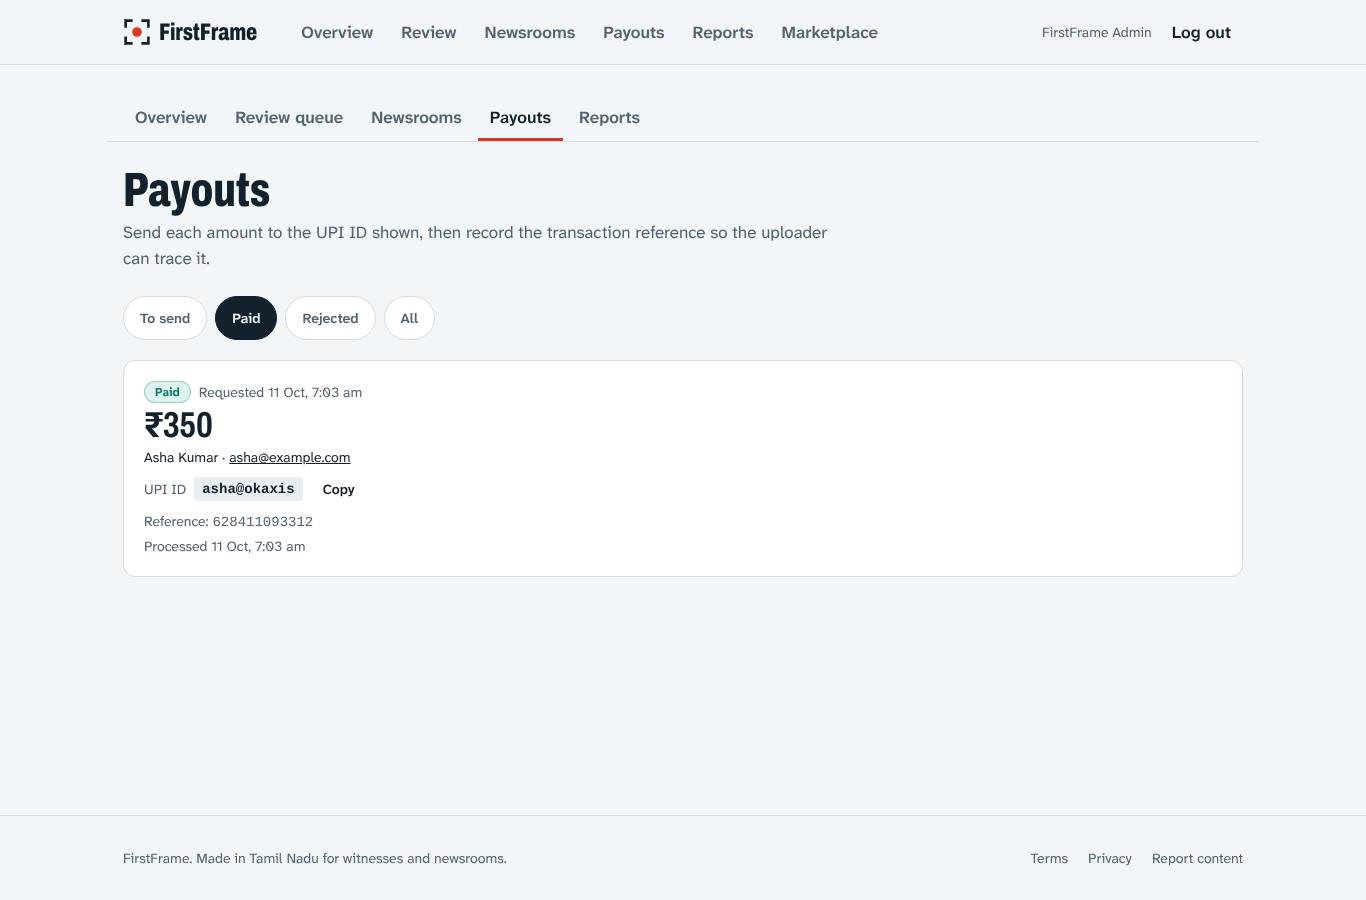
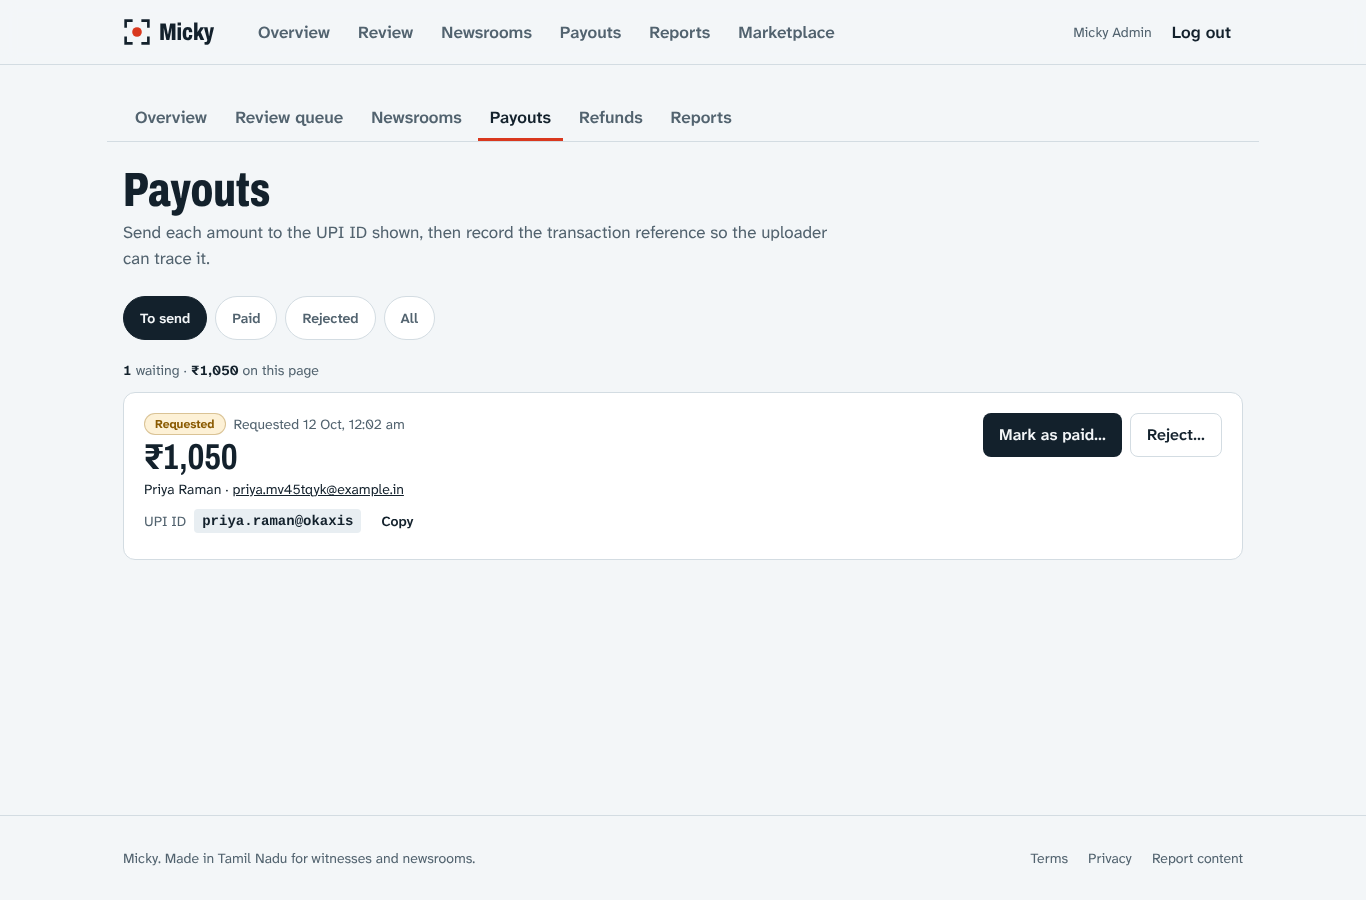
docs: retake all screenshots with the Micky name; poster image in the preview player
- e2e/shots: a script that seeds realistic demo data and regenerates all 23
  images in docs/screenshots (desktop and mobile)
- Preview player shows the watermarked thumbnail before playback and keeps
  it visible behind any playback error, instead of a black box

diff --git a/e2e/shots/screens.spec.ts b/e2e/shots/screens.spec.ts
@@ -1,0 +1,197 @@
+// Regenerates docs/screenshots/ from the real app with realistic demo data.
+// Not part of the test suite: run with `npx playwright test --config shots/shots.config.ts`.
+import { execFileSync } from 'node:child_process';
+import { openAsBlob } from 'node:fs';
+import { mkdirSync } from 'node:fs';
+import path from 'node:path';
+import { type Browser, type BrowserContext, type Page, expect, test } from '@playwright/test';
+import { PASSWORD, type Session, approveChannel, approveMedia, call, loginAdmin, register, waitForStatus } from '../support/api.js';
+import { ADMIN_EMAIL, ADMIN_PASSWORD, FIXTURES_DIR, ROOT, WEB_URL } from '../support/env.js';
+import { loginInUi } from '../support/fixtures.js';
+import { queryDb } from '../support/stack.js';
+
+const OUT = path.join(ROOT, 'docs', 'screenshots');
+const run = Date.now().toString(36);
+
+const CLIPS = [
+  { src: 'testsrc2', title: 'Warehouse fire near Chennai Central', category: 'FIRE', lat: 13.0827, lng: 80.2707, place: 'Chennai Central' },
+  { src: 'mandelbrot', title: 'Bus overturned near Tambaram bridge', category: 'ACCIDENT', lat: 12.9249, lng: 80.1, place: 'Tambaram' },
+  { src: 'smptehdbars', title: 'Waterlogging on Anna Salai after heavy rain', category: 'FLOOD', lat: 13.0604, lng: 80.2496, place: 'Anna Salai, near Gemini flyover' },
+  { src: 'life=s=640x360:mold=10:r=25:ratio=0.1:death_color=#C83737:life_color=#00ff00', title: 'Tree fallen across Gandhipuram main road', category: 'INFRASTRUCTURE', lat: 11.0168, lng: 76.9558, place: 'Gandhipuram, Coimbatore' },
+] as const;
+
+function makeClip(i: number): string {
+  const c = CLIPS[i];
+  const file = path.join(FIXTURES_DIR, `shot-${i}.mp4`);
+  const src = c.src.includes('=') ? c.src : `${c.src}=size=640x360:rate=25`;
+  execFileSync('ffmpeg', ['-hide_banner', '-loglevel', 'error', '-y', '-f', 'lavfi', '-i', src, '-f', 'lavfi', '-i', 'sine=frequency=330',
+    '-t', '8', '-c:v', 'libx264', '-preset', 'veryfast', '-pix_fmt', 'yuv420p', '-c:a', 'aac', '-shortest',
+    '-metadata', `comment=shots-${run}-${i}`, '-movflags', '+faststart', file]);
+  return file;
+}
+
+async function upload(s: Session, i: number): Promise<string> {
+  const c = CLIPS[i];
+  const form = new FormData();
+  form.set('title', c.title);
+  form.set('description', 'Filmed from across the road. Fire services arrived about ten minutes later.');
+  form.set('category', c.category);
+  form.set('latitude', String(c.lat));
+  form.set('longitude', String(c.lng));
+  form.set('locationName', c.place);
+  form.set('capturedAt', new Date(Date.now() - (i + 1) * 25 * 60_000).toISOString());
+  form.set('rightsConfirmed', 'true');
+  form.set('file', await openAsBlob(makeClip(i), { type: 'video/mp4' }), `VID_2026101${i}.mp4`);
+  const res = await call<{ id: string }>('POST', '/media', { token: s.token, form });
+  expect(res.status, JSON.stringify(res.body)).toBe(201);
+  return res.body.id;
+}
+
+const DESKTOP = { viewport: { width: 1366, height: 900 }, deviceScaleFactor: 1 };
+const MOBILE = { viewport: { width: 360, height: 780 }, deviceScaleFactor: 2, isMobile: true, hasTouch: true };
+
+async function ctx(browser: Browser, opts: typeof DESKTOP | typeof MOBILE): Promise<BrowserContext> {
+  const c = await browser.newContext({ ...opts, baseURL: WEB_URL, geolocation: { latitude: 13.0827, longitude: 80.2707 }, permissions: ['geolocation'] });
+  await c.route((u) => !['localhost', '127.0.0.1'].includes(u.hostname), (r) => r.abort('blockedbyclient'));
+  return c;
+}
+
+async function settle(p: Page) {
+  await p.waitForLoadState('networkidle').catch(() => {});
+  await p.waitForTimeout(1200);
+}
+
+async function shot(p: Page, name: string, fullPage = false) {
+  await settle(p);
+  await p.screenshot({ path: path.join(OUT, `${name}.png`), fullPage });
+}
+
+test.describe.serial('screenshots', () => {
+  test.setTimeout(600_000);
+  const uploaderEmail = `priya.${run}@example.in`;
+  const channelEmail = `desk.${run}@chennailive.in`;
+  let ids: string[] = [];
+
+  test('seed demo data', async () => {
+    mkdirSync(FIXTURES_DIR, { recursive: true });
+    await queryDb(`UPDATE users SET name = 'Micky Admin' WHERE email = $1`, [ADMIN_EMAIL]);
+    const admin = await loginAdmin();
+    const uploader = await register('UPLOADER', { name: 'Priya Raman', email: uploaderEmail });
+    ids = [];
+    // One at a time: the API caps uploads still processing per witness (review M6).
+    for (let i = 0; i < CLIPS.length; i++) {
+      ids.push(await upload(uploader, i));
+      await waitForStatus(uploader, ids[i], 'IN_REVIEW', 120_000);
+    }
+    for (const id of ids.slice(0, 3)) await approveMedia(admin, id);
+    const channel = await register('CHANNEL', { name: 'Karthik S', organization: 'Chennai Live News', email: channelEmail });
+    await approveChannel(admin, channel.user.id);
+    await register('CHANNEL', { name: 'Meena R', organization: 'Kovai Times', email: `news.${run}@kovaitimes.in` });
+    const rep = await call('POST', '/reports', {
+      body: { mediaId: ids[1], reporterEmail: 'family.member@example.in', reason: 'PRIVACY', details: 'My relative is visible in this clip and did not agree to be filmed.' },
+    });
+    expect(rep.status).toBe(201);
+  });
+
+  test('desktop: newsroom', async ({ browser }) => {
+    const c = await ctx(browser, DESKTOP);
+    const p = await c.newPage();
+    await p.goto('/');
+    await shot(p, 'home-desktop');
+    await loginInUi(p, channelEmail, PASSWORD);
+    await p.goto('/newsroom');
+    await shot(p, 'newsroom-feed-desktop');
+    await p.getByLabel(/search/i).first().fill('Chennai');
+    await p.getByRole('button', { name: 'Search' }).click();
+    await shot(p, 'newsroom-search-desktop');
+    await p.goto('/newsroom/map');
+    await shot(p, 'newsroom-map-desktop');
+    await p.goto(`/newsroom/media/${ids[1]}`);
+    await p.waitForTimeout(6000); // the per-newsroom preview rendition is prepared on first view
+    await shot(p, 'newsroom-media-desktop', true);
+    await p.goto(`/newsroom/media/${ids[0]}`);
+    await settle(p);
+    await p.getByRole('button', { name: 'Buy non-exclusive licence' }).click();
+    const dialog = p.getByRole('dialog', { name: 'Test payment' });
+    await expect(dialog).toBeVisible();
+    await shot(p, 'newsroom-mock-checkout-desktop');
+    await dialog.getByRole('button', { name: 'Simulate successful payment' }).click();
+    await expect(p.getByText('Payment received. The licence is yours.')).toBeVisible();
+    await c.close();
+  });
+
+  test('mobile: witness and newsroom', async ({ browser }) => {
+    const anon = await ctx(browser, MOBILE);
+    const a = await anon.newPage();
+    await a.goto('/');
+    await shot(a, 'home-mobile', true);
+    await a.goto('/report');
+    await shot(a, 'report-mobile', true);
+    await anon.close();
+
+    const w = await ctx(browser, MOBILE);
+    const u = await w.newPage();
+    await loginInUi(u, uploaderEmail, PASSWORD);
+    await u.goto('/upload');
+    await shot(u, 'upload-mobile', true);
+    await u.goto('/dashboard');
+    await shot(u, 'uploader-dashboard-mobile', true);
+    await u.goto(`/dashboard/media/${ids[0]}`);
+    await shot(u, 'uploader-media-mobile', true);
+    await u.goto('/dashboard/earnings');
+    await settle(u);
+    await u.getByLabel('UPI ID').fill('priya.raman@okaxis');
+    await u.getByLabel('Your account password').fill(PASSWORD);
+    await u.getByRole('button', { name: 'Save UPI ID' }).click();
+    await expect(u.getByText('UPI ID saved')).toBeVisible();
+    await u.getByRole('button', { name: 'Request payout' }).click();
+    await expect(u.getByText(/Payout of .* requested/)).toBeVisible();
+    await u.waitForTimeout(5500); // let the toasts disappear
+    await shot(u, 'uploader-earnings-mobile', true);
+    await w.close();
+
+    const n = await ctx(browser, MOBILE);
+    const q = await n.newPage();
+    await loginInUi(q, channelEmail, PASSWORD);
+    await q.goto('/newsroom');
+    await q.getByLabel(/search/i).first().fill('Chennai');
+    await q.getByRole('button', { name: 'Search' }).click();
+    await shot(q, 'newsroom-search-mobile', true);
+    await q.goto(`/newsroom/media/${ids[2]}`);
+    await q.waitForTimeout(6000);
+    await shot(q, 'newsroom-media-mobile', true);
+    await q.goto('/newsroom/purchases');
+    await shot(q, 'newsroom-purchases-mobile', true);
+    await n.close();
+  });
+
+  test('admin: desktop and mobile', async ({ browser }) => {
+    const c = await ctx(browser, DESKTOP);
+    const p = await c.newPage();
+    await loginInUi(p, ADMIN_EMAIL, ADMIN_PASSWORD);
+    await p.goto('/admin');
+    await shot(p, 'admin-overview-desktop');
+    await p.goto('/admin/review');
+    await settle(p);
+    await p.getByText(CLIPS[3].title).first().click();
+    await shot(p, 'admin-review-desktop', true);
+    await p.goto('/admin/channels');
+    await shot(p, 'admin-channels-desktop');
+    await p.goto('/admin/payouts');
+    await shot(p, 'admin-payouts-desktop');
+    await p.goto('/admin/reports');
+    await shot(p, 'admin-reports-desktop', true);
+    await c.close();
+
+    const m = await ctx(browser, MOBILE);
+    const q = await m.newPage();
+    await loginInUi(q, ADMIN_EMAIL, ADMIN_PASSWORD);
+    await q.goto('/admin/review');
+    await shot(q, 'admin-review-mobile', true);
+    await q.getByText(CLIPS[3].title).first().click();
+    await shot(q, 'admin-review-item-mobile', true);
+    await q.goto('/admin/channels');
+    await shot(q, 'admin-channels-mobile', true);
+    await m.close();
+  });
+});

diff --git a/apps/web/components/preview-player.tsx b/apps/web/components/preview-player.tsx
@@ -55,11 +55,14 @@ export function PreviewPlayer({
   type,
   title,
   audience = 'buyer',
+  posterUrl = null,
 }: {
   mediaId: string;
   type: MediaType;
   title: string;
   audience?: PreviewAudience;
+  /** The watermarked thumbnail: shown before playback starts and behind any error. */
+  posterUrl?: string | null;
 }) {
   const [session, setSession] = useState<PreviewSession | null>(null);
   const [error, setError] = useState<string | null>(null);
@@ -140,8 +143,19 @@ export function PreviewPlayer({
         // Stop dragging the picture out to the desktop or another tab.
         onDragStart={(e) => e.preventDefault()}
       >
+        {error && posterUrl ? (
+          // Keep showing what the footage looks like; the message sits in a bar over the picture.
+          // eslint-disable-next-line @next/next/no-img-element
+          <img src={posterUrl} alt="" draggable={false} className="pointer-events-none absolute inset-0 h-full w-full object-contain" />
+        ) : null}
         {error ? (
-          <div className="flex h-full flex-col items-center justify-center gap-3 p-6 text-center text-white">
+          <div
+            className={
+              posterUrl
+                ? 'absolute inset-x-0 bottom-0 flex flex-wrap items-center justify-center gap-3 bg-black/75 p-3 text-center text-sm text-white'
+                : 'flex h-full flex-col items-center justify-center gap-3 p-6 text-center text-white'
+            }
+          >
             <p className="font-semibold">{error}</p>
             {final ? null : (
               <Button
@@ -168,6 +182,7 @@ export function PreviewPlayer({
             ref={videoRef}
             src={session.playlistUrl}
             title={title}
+            posterUrl={posterUrl}
             resumeAt={resumeAt}
             wasPlaying={wasPlaying}
             onExpired={() => void load()}
@@ -223,6 +238,7 @@ interface HlsVideoProps {
   ref: React.Ref<HTMLVideoElement>;
   src: string;
   title: string;
+  posterUrl: string | null;
   resumeAt: React.RefObject<number>;
   wasPlaying: React.RefObject<boolean>;
   onExpired: () => void;
@@ -230,7 +246,7 @@ interface HlsVideoProps {
   onUnplayable: (message: string) => void;
 }
 
-function HlsVideo({ ref, src, title, resumeAt, wasPlaying, onExpired, onUnplayable }: HlsVideoProps) {
+function HlsVideo({ ref, src, title, posterUrl, resumeAt, wasPlaying, onExpired, onUnplayable }: HlsVideoProps) {
   const innerRef = useRef<HTMLVideoElement | null>(null);
   const onExpiredRef = useRef(onExpired);
   const onUnplayableRef = useRef(onUnplayable);
@@ -314,6 +330,7 @@ function HlsVideo({ ref, src, title, resumeAt, wasPlaying, onExpired, onUnplayab
       ref={setRefs}
       aria-label={`Preview of ${title}`}
       className="h-full w-full"
+      poster={posterUrl ?? undefined}
       controls
       playsInline
       // Hide "Download", block picture-in-picture and casting; see the note at the top.

diff --git a/apps/web/app/dashboard/media/[id]/owner-media-detail.tsx b/apps/web/app/dashboard/media/[id]/owner-media-detail.tsx
@@ -50,7 +50,7 @@ export function OwnerMediaDetail() {
       <div className="grid gap-6 lg:grid-cols-[1.5fr_1fr]">
         <div className="flex flex-col gap-6">
           {previewable ? (
-            <PreviewPlayer mediaId={media.id} type={media.type} title={media.title} audience="owner" />
+            <PreviewPlayer mediaId={media.id} posterUrl={media.thumbnailUrl} type={media.type} title={media.title} audience="owner" />
           ) : (
             <div className="flex aspect-video items-center justify-center rounded-xl bg-sunken p-6 text-center text-muted">
               {media.status === 'PROCESSING' ? 'The preview will appear here once it is ready.' : 'No preview available.'}

diff --git a/apps/web/app/newsroom/media/[id]/market-media-detail.tsx b/apps/web/app/newsroom/media/[id]/market-media-detail.tsx
@@ -50,7 +50,7 @@ export function MarketMediaDetail() {
 
       <div className="grid gap-6 lg:grid-cols-[1.6fr_1fr]">
         <div className="flex flex-col gap-6">
-          <PreviewPlayer mediaId={m.id} type={m.type} title={m.title} audience={user.role === 'ADMIN' ? 'admin' : 'buyer'} />
+          <PreviewPlayer mediaId={m.id} posterUrl={m.thumbnailUrl} type={m.type} title={m.title} audience={user.role === 'ADMIN' ? 'admin' : 'buyer'} />
           <header className="flex flex-col gap-2">
             <CategoryBadge category={m.category} />
             <h1 className="font-display text-4xl font-extrabold sm:text-5xl">{m.title}</h1>

diff --git a/apps/web/app/admin/review/review-queue.tsx b/apps/web/app/admin/review/review-queue.tsx
@@ -208,7 +208,7 @@ function ReviewPanel({
         {m.description ? <p className="max-w-prose whitespace-pre-line [overflow-wrap:anywhere]">{m.description}</p> : null}
       </header>
 
-      <PreviewPlayer mediaId={m.id} type={m.type} title={m.title} audience="admin" />
+      <PreviewPlayer mediaId={m.id} posterUrl={m.thumbnailUrl} type={m.type} title={m.title} audience="admin" />
 
       <Panel aria-labelledby="decision-h" className="border-ink">
         <h3 id="decision-h" className="mb-3 text-xl font-bold">

diff --git a/e2e/shots/shots.config.ts b/e2e/shots/shots.config.ts
@@ -1,0 +1,12 @@
+// Config for regenerating docs/screenshots/ (see screens.spec.ts). Reuses the e2e stack.
+import { defineConfig } from '@playwright/test';
+import base from '../playwright.config';
+
+export default defineConfig({
+  ...base,
+  testDir: '.',
+  globalSetup: '../global-setup.ts',
+  globalTeardown: '../global-teardown.ts',
+  reporter: [['list']],
+  timeout: 600_000,
+});

diff --git a/e2e/README.md b/e2e/README.md
@@ -90,3 +90,12 @@ No uncaught page errors may occur along the way.
   - the admin API session is logged in once per run;
   - the suite stays under both limits.
 - **Refresh-token rotation.** Contexts are never cloned from a saved `storageState`. Reusing a rotated refresh cookie is treated as theft and logs the user out everywhere.
+
+## Regenerating the README screenshots
+
+`shots/` is not part of the test suite. It boots the same stack, creates realistic demo data (four incidents, two newsrooms, a purchase, a payout request and a report), and rewrites every image in `docs/screenshots/` at 1366 px (desktop) and 360 px (mobile):
+
+```bash
+(cd apps/api && npm run build) && (cd apps/web && npm run build)
+cd e2e && npx playwright test --config shots/shots.config.ts
+```
